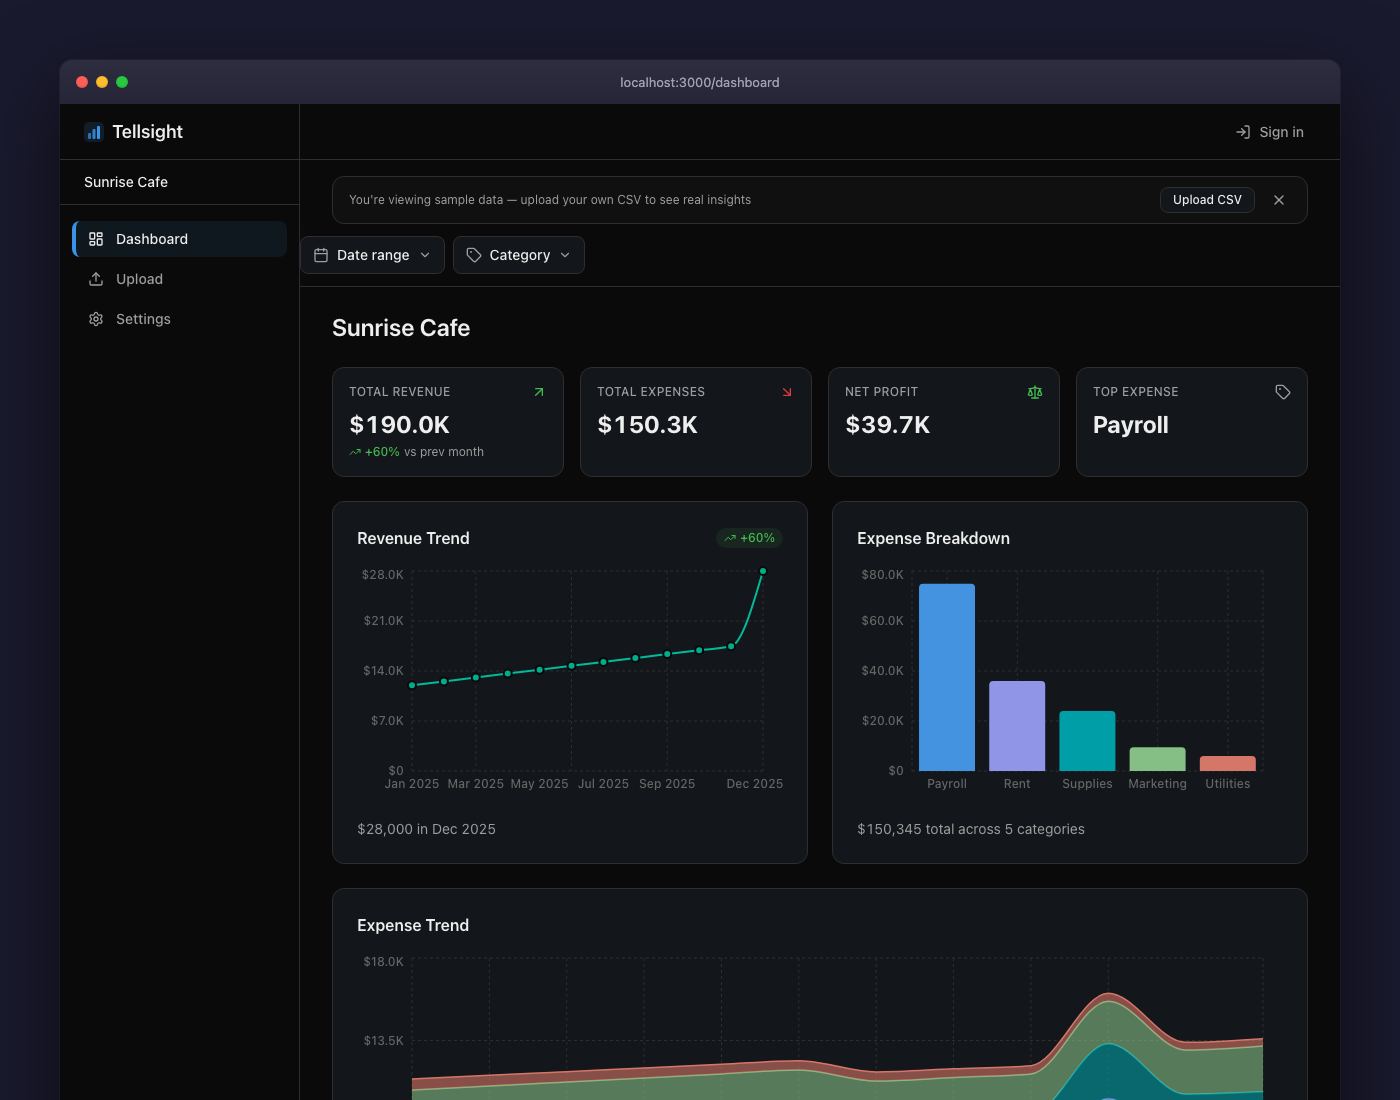
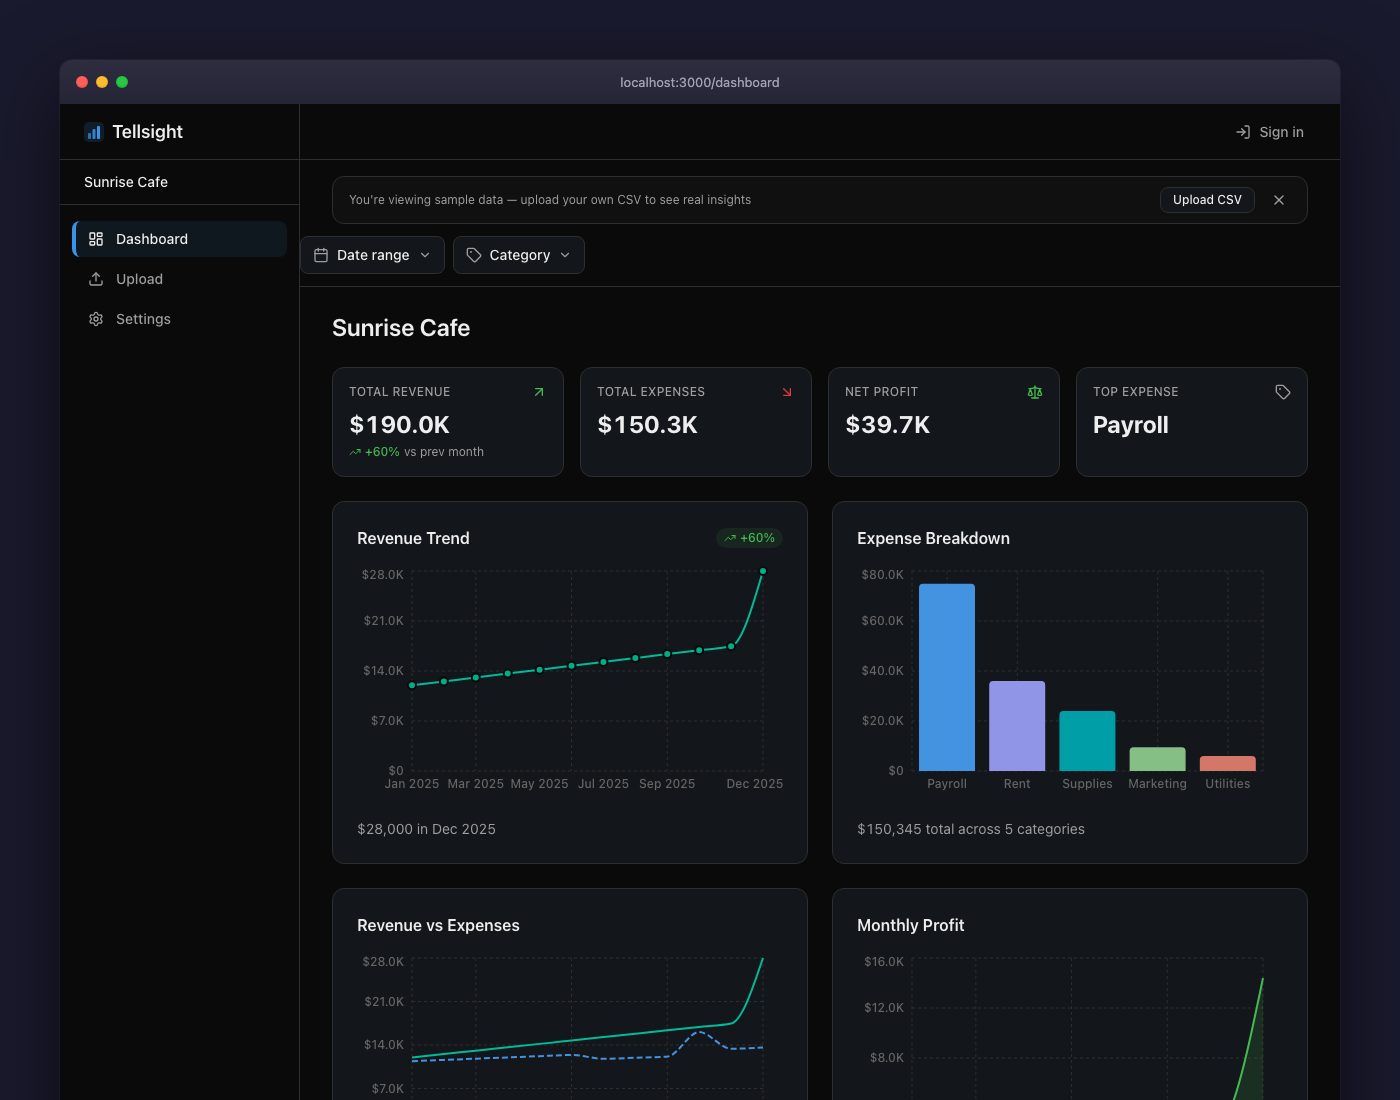
feat: add Revenue vs Expenses and Monthly Profit charts
Two new charts fill the dashboard's second row: a dual-line
Revenue vs Expenses comparison and an area chart showing monthly
profit with a zero reference line. Layout is now KPIs, primary
charts (2-col), comparison charts (2-col), expense trend
(full-width), then AI analysis.

Changed region(s): [[0.2764, 0.8964, 0.9214, 1.0], [0.6143, 0.8345, 0.6757, 0.9273], [0.2457, 0.8345, 0.3686, 0.8655]]

diff --git a/apps/web/app/dashboard/charts/RevenueVsExpensesChart.tsx b/apps/web/app/dashboard/charts/RevenueVsExpensesChart.tsx
@@ -1,0 +1,126 @@
+'use client';
+
+import {
+  LineChart,
+  Line,
+  XAxis,
+  YAxis,
+  CartesianGrid,
+  Tooltip,
+  ResponsiveContainer,
+  Legend,
+} from 'recharts';
+import type { MonthlyComparisonPoint } from 'shared/types';
+import { CHART_CONFIG } from 'shared/constants';
+import { useReducedMotion } from '@/hooks/useReducedMotion';
+import { formatCurrency, formatAbbreviated } from './formatters';
+
+interface RevenueVsExpensesChartProps {
+  data: MonthlyComparisonPoint[];
+}
+
+function ComparisonTooltip({ active, payload, label }: {
+  active?: boolean;
+  payload?: Array<{ name: string; value: number; color: string }>;
+  label?: string;
+}) {
+  if (!active || !payload?.length) return null;
+
+  return (
+    <div
+      role="status"
+      aria-live="polite"
+      className="rounded-md border border-border bg-card px-3 py-2 text-sm shadow-md"
+    >
+      <p className="mb-1.5 font-medium text-card-foreground">{label}</p>
+      {payload.map((p) => (
+        <div key={p.name} className="flex items-center justify-between gap-4">
+          <span className="flex items-center gap-1.5">
+            <span
+              className="inline-block h-2 w-2 rounded-full"
+              style={{ backgroundColor: p.color }}
+            />
+            <span className="text-muted-foreground">{p.name}</span>
+          </span>
+          <span className="font-medium text-card-foreground" style={{ fontFeatureSettings: '"tnum"' }}>
+            {formatCurrency(p.value)}
+          </span>
+        </div>
+      ))}
+    </div>
+  );
+}
+
+export function RevenueVsExpensesChart({ data }: RevenueVsExpensesChartProps) {
+  const reducedMotion = useReducedMotion();
+
+  if (data.length === 0) return null;
+
+  return (
+    <figure className="rounded-lg border border-border bg-card p-4 shadow-sm transition-shadow duration-200 hover:shadow-md motion-reduce:transition-none motion-reduce:hover:shadow-sm md:p-6">
+      <figcaption className="mb-4">
+        <h3 className="text-base font-semibold text-card-foreground">
+          Revenue vs Expenses
+        </h3>
+      </figcaption>
+
+      <div
+        className="aspect-video"
+        role="img"
+        aria-label="Line chart comparing monthly revenue and expenses"
+      >
+        <ResponsiveContainer width="100%" height="100%" debounce={CHART_CONFIG.RESIZE_DEBOUNCE_MS}>
+          <LineChart
+            data={data}
+            margin={{ top: 5, right: 20, bottom: 5, left: 0 }}
+            accessibilityLayer
+          >
+            <CartesianGrid strokeDasharray="3 3" className="stroke-border" />
+            <XAxis
+              dataKey="month"
+              tick={{ fontSize: 12, fontWeight: 500 }}
+              className="fill-muted-foreground"
+              tickLine={false}
+              axisLine={false}
+            />
+            <YAxis
+              tickFormatter={formatAbbreviated}
+              tick={{ fontSize: 12, fontWeight: 500 }}
+              className="fill-muted-foreground"
+              tickLine={false}
+              axisLine={false}
+              width={55}
+            />
+            <Tooltip content={<ComparisonTooltip />} />
+            <Legend
+              iconType="circle"
+              iconSize={8}
+              wrapperStyle={{ fontSize: 12, paddingTop: 8 }}
+            />
+            <Line
+              type="monotone"
+              dataKey="revenue"
+              name="Revenue"
+              stroke="var(--color-chart-revenue)"
+              strokeWidth={2}
+              dot={false}
+              animationDuration={CHART_CONFIG.ANIMATION_DURATION_MS}
+              isAnimationActive={!reducedMotion}
+            />
+            <Line
+              type="monotone"
+              dataKey="expenses"
+              name="Expenses"
+              stroke="var(--color-chart-expense-1)"
+              strokeWidth={2}
+              strokeDasharray="6 3"
+              dot={false}
+              animationDuration={CHART_CONFIG.ANIMATION_DURATION_MS}
+              isAnimationActive={!reducedMotion}
+            />
+          </LineChart>
+        </ResponsiveContainer>
+      </div>
+    </figure>
+  );
+}

diff --git a/apps/web/app/dashboard/charts/ProfitMarginChart.tsx b/apps/web/app/dashboard/charts/ProfitMarginChart.tsx
@@ -1,0 +1,105 @@
+'use client';
+
+import {
+  AreaChart,
+  Area,
+  XAxis,
+  YAxis,
+  CartesianGrid,
+  Tooltip,
+  ResponsiveContainer,
+  ReferenceLine,
+} from 'recharts';
+import type { MonthlyComparisonPoint } from 'shared/types';
+import { CHART_CONFIG } from 'shared/constants';
+import { useReducedMotion } from '@/hooks/useReducedMotion';
+import { formatCurrency, formatAbbreviated } from './formatters';
+
+interface ProfitMarginChartProps {
+  data: MonthlyComparisonPoint[];
+}
+
+function ProfitTooltip({ active, payload, label }: {
+  active?: boolean;
+  payload?: Array<{ value: number }>;
+  label?: string;
+}) {
+  if (!active || !payload?.[0]) return null;
+
+  const profit = payload[0].value;
+
+  return (
+    <div
+      role="status"
+      aria-live="polite"
+      className="rounded-md border border-border bg-card px-3 py-2 text-sm shadow-md"
+    >
+      <p className="font-medium text-card-foreground">{label}</p>
+      <p
+        className={profit >= 0 ? 'font-semibold text-success' : 'font-semibold text-destructive'}
+        style={{ fontFeatureSettings: '"tnum"' }}
+      >
+        {profit >= 0 ? '+' : ''}{formatCurrency(profit)}
+      </p>
+    </div>
+  );
+}
+
+export function ProfitMarginChart({ data }: ProfitMarginChartProps) {
+  const reducedMotion = useReducedMotion();
+
+  if (data.length === 0) return null;
+
+  return (
+    <figure className="rounded-lg border border-border bg-card p-4 shadow-sm transition-shadow duration-200 hover:shadow-md motion-reduce:transition-none motion-reduce:hover:shadow-sm md:p-6">
+      <figcaption className="mb-4">
+        <h3 className="text-base font-semibold text-card-foreground">
+          Monthly Profit
+        </h3>
+      </figcaption>
+
+      <div
+        className="aspect-video"
+        role="img"
+        aria-label="Area chart showing monthly profit (revenue minus expenses)"
+      >
+        <ResponsiveContainer width="100%" height="100%" debounce={CHART_CONFIG.RESIZE_DEBOUNCE_MS}>
+          <AreaChart
+            data={data}
+            margin={{ top: 5, right: 20, bottom: 5, left: 0 }}
+            accessibilityLayer
+          >
+            <CartesianGrid strokeDasharray="3 3" className="stroke-border" />
+            <XAxis
+              dataKey="month"
+              tick={{ fontSize: 12, fontWeight: 500 }}
+              className="fill-muted-foreground"
+              tickLine={false}
+              axisLine={false}
+            />
+            <YAxis
+              tickFormatter={formatAbbreviated}
+              tick={{ fontSize: 12, fontWeight: 500 }}
+              className="fill-muted-foreground"
+              tickLine={false}
+              axisLine={false}
+              width={55}
+            />
+            <Tooltip content={<ProfitTooltip />} />
+            <ReferenceLine y={0} stroke="var(--color-border)" strokeDasharray="3 3" />
+            <Area
+              type="monotone"
+              dataKey="profit"
+              stroke="var(--color-success)"
+              fill="var(--color-success)"
+              fillOpacity={0.15}
+              strokeWidth={2}
+              animationDuration={CHART_CONFIG.ANIMATION_DURATION_MS}
+              isAnimationActive={!reducedMotion}
+            />
+          </AreaChart>
+        </ResponsiveContainer>
+      </div>
+    </figure>
+  );
+}

diff --git a/apps/web/app/dashboard/DashboardShell.tsx b/apps/web/app/dashboard/DashboardShell.tsx
@@ -17,6 +17,8 @@ import { useSidebar } from './contexts/SidebarContext';
 import { RevenueChart } from './charts/RevenueChart';
 import { ExpenseChart } from './charts/ExpenseChart';
 import { ExpenseTrendChart } from './charts/ExpenseTrendChart';
+import { RevenueVsExpensesChart } from './charts/RevenueVsExpensesChart';
+import { ProfitMarginChart } from './charts/ProfitMarginChart';
 import { ChartSkeleton } from './charts/ChartSkeleton';
 import { LazyChart } from './charts/LazyChart';
 import { FilterBar, computeDateRange, type FilterState } from './FilterBar';
@@ -291,6 +293,16 @@ export function DashboardShell({ initialData, cachedSummary, cachedMetadata, tie
                     </LazyChart>
                   )}
                 </div>
+                {data.monthlyComparison?.length > 0 && (
+                  <div className="mt-4 grid gap-4 md:mt-6 md:grid-cols-2 md:gap-6">
+                    <LazyChart skeletonVariant="line">
+                      <RevenueVsExpensesChart data={data.monthlyComparison} />
+                    </LazyChart>
+                    <LazyChart skeletonVariant="line">
+                      <ProfitMarginChart data={data.monthlyComparison} />
+                    </LazyChart>
+                  </div>
+                )}
                 {data.expenseTrend?.length > 0 && (
                   <div className="mt-4 md:mt-6">
                     <LazyChart skeletonVariant="line">

diff --git a/apps/api/src/db/queries/charts.ts b/apps/api/src/db/queries/charts.ts
@@ -120,5 +120,25 @@ export async function getChartData(
       return point;
     });
 
-  return { revenueTrend, expenseBreakdown, expenseTrend, availableCategories, dateRange };
+  // monthly totals for revenue vs expenses + profit margin charts
+  const allMonthKeys = new Set([...revenueByMonth.keys(), ...expenseByMonthCategory.keys()]);
+  const monthlyComparison = [...allMonthKeys]
+    .sort()
+    .map((key) => {
+      const monthIdx = parseInt(key.split('-')[1]!, 10) - 1;
+      const year = key.split('-')[0];
+      const revenue = Math.round((revenueByMonth.get(key) ?? 0) * 100) / 100;
+      const totalExpense = expenseByMonthCategory.has(key)
+        ? [...expenseByMonthCategory.get(key)!.values()].reduce((s, v) => s + v, 0)
+        : 0;
+      const expenses = Math.round(totalExpense * 100) / 100;
+      return {
+        month: `${MONTH_LABELS[monthIdx]} ${year}`,
+        revenue,
+        expenses,
+        profit: Math.round((revenue - expenses) * 100) / 100,
+      };
+    });
+
+  return { revenueTrend, expenseBreakdown, expenseTrend, monthlyComparison, availableCategories, dateRange };
 }

diff --git a/packages/shared/src/types/charts.ts b/packages/shared/src/types/charts.ts
@@ -2,6 +2,7 @@ import type { z } from 'zod';
 import type {
   revenueTrendPointSchema,
   expenseBreakdownItemSchema,
+  monthlyComparisonPointSchema,
   datasetDateRangeSchema,
   chartDataSchema,
 } from '../schemas/charts.js';
@@ -10,6 +11,7 @@ import type { chartFiltersSchema } from '../schemas/filters.js';
 export type RevenueTrendPoint = z.infer<typeof revenueTrendPointSchema>;
 export type ExpenseBreakdownItem = z.infer<typeof expenseBreakdownItemSchema>;
 export type ExpenseTrendPoint = Record<string, string | number>;
+export type MonthlyComparisonPoint = z.infer<typeof monthlyComparisonPointSchema>;
 export type DatasetDateRange = z.infer<typeof datasetDateRangeSchema>;
 export type ChartData = z.infer<typeof chartDataSchema>;
 export type ChartFilters = z.infer<typeof chartFiltersSchema>;

diff --git a/packages/shared/src/schemas/charts.ts b/packages/shared/src/schemas/charts.ts
@@ -18,10 +18,18 @@ export const datasetDateRangeSchema = z.object({
 
 export const expenseTrendPointSchema = z.record(z.string(), z.union([z.string(), z.number()]));
 
+export const monthlyComparisonPointSchema = z.object({
+  month: z.string(),
+  revenue: z.number(),
+  expenses: z.number(),
+  profit: z.number(),
+});
+
 export const chartDataSchema = z.object({
   revenueTrend: z.array(revenueTrendPointSchema),
   expenseBreakdown: z.array(expenseBreakdownItemSchema),
   expenseTrend: z.array(expenseTrendPointSchema),
+  monthlyComparison: z.array(monthlyComparisonPointSchema),
   orgName: z.string(),
   isDemo: z.boolean(),
   availableCategories: z.array(z.string()),

diff --git a/apps/web/app/dashboard/DashboardShell.test.tsx b/apps/web/app/dashboard/DashboardShell.test.tsx
@@ -151,6 +151,10 @@ const fullData: ChartData = {
     { month: 'Jan', Payroll: 3000, Rent: 1500 },
     { month: 'Feb', Payroll: 3200, Rent: 1500 },
   ],
+  monthlyComparison: [
+    { month: 'Jan', revenue: 5000, expenses: 4500, profit: 500 },
+    { month: 'Feb', revenue: 7000, expenses: 4700, profit: 2300 },
+  ],
   orgName: 'Acme Corp',
   isDemo: false,
   availableCategories: ['Payroll', 'Rent'],
@@ -163,6 +167,7 @@ const emptyData: ChartData = {
   revenueTrend: [],
   expenseBreakdown: [],
   expenseTrend: [],
+  monthlyComparison: [],
   orgName: 'Dashboard',
   isDemo: true,
   availableCategories: [],

diff --git a/apps/web/app/dashboard/page.tsx b/apps/web/app/dashboard/page.tsx
@@ -8,6 +8,7 @@ const EMPTY_CHART_DATA: ChartData = {
   revenueTrend: [],
   expenseBreakdown: [],
   expenseTrend: [],
+  monthlyComparison: [],
   orgName: 'Dashboard',
   isDemo: true,
   availableCategories: [],

diff --git a/packages/shared/src/types/index.ts b/packages/shared/src/types/index.ts
@@ -23,6 +23,7 @@ export type {
 export type {
   RevenueTrendPoint,
   ExpenseBreakdownItem,
+  MonthlyComparisonPoint,
   DatasetDateRange,
   ChartData,
   ChartFilters,
